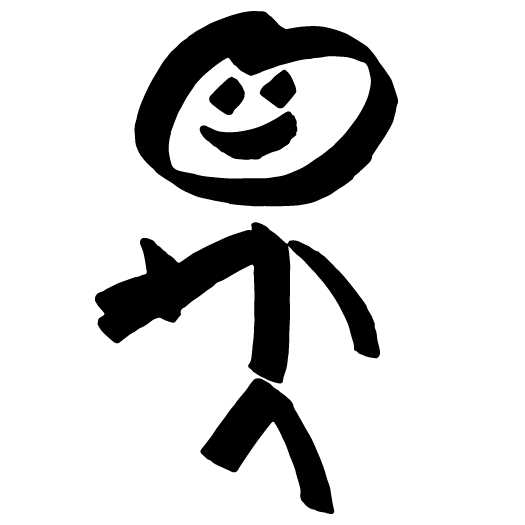
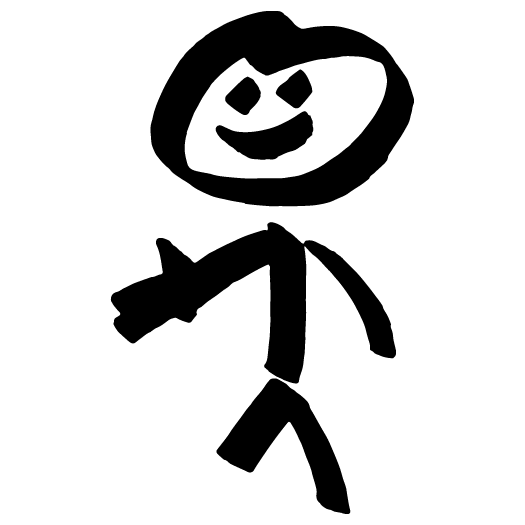
added all images and colors

Changed region(s): [[0.1829, 0.4267, 0.7619, 1.0], [0.2438, 0.0, 0.7924, 0.3962], [0.5181, 0.3352, 0.5486, 0.3657]]

diff --git a/css/main.css b/css/main.css
@@ -55,27 +55,27 @@ abbr, acronym {
 }
 
 #hi .pics {
-  background: #7dfbff;
+  background: #84FFFF;
 }
 
 #edu .pics {
-  background: #00ffff;
+  background: #18FFFF;
 }
 
 #recruit .pics {
-  background: #00eba1;
+  background: #00E5FF;
 }
 
 #copy .pics {
-  background: #00dfeb;
+  background: #00B8D4;
 }
 
 #dev .pics {
-  background: #85D7FF;
+  background: #00E676;
 }
 
 #contact .pics {
-  background: #fff;
+  background: #69F0AE;
 }
 
 #up, #down {
@@ -295,4 +295,4 @@ div .text {
   }
 }
 
[2 lines of base64/hex data omitted]

diff --git a/index.html b/index.html
@@ -25,8 +25,8 @@
             Menu
         </nav>
 
-        <span id="up">UP</span>
-        <span id="down">DOWN</span>
+        <span id="up"><img src="img/Ilu_strzalka-up.png" alt="up arrow"></span>
+        <span id="down"><img src="img/Ilu_strzalka-down.png" alt="down arrow"></span>
 
         <div class="container" id="hi">
             <div class="text">
@@ -49,28 +49,28 @@
         <div class="container" id="recruit">
             <div class="text">Jeszcze na studiach zacząłem pracę dla jednej z największych firm technologicznych świata, gdzie przez ponad 6 lat rekrutowałem inżynierów.</div>
             <div class="pics">
-
+                <img src="img/Ilu-03.png" alt="sticky figure">
             </div>
         </div>
 
         <div class="container" id="copy">
             <div class="text">Następnie przez ponad rok w tej samej firmie dbałem o jej wizerunek jako specjalista ds. komunikacji, głównie pisząc teksty po polsku i po angielsku.</div>
             <div class="pics">
-
+                <img src="img/Ilu-04.png" alt="sticky figure">
             </div>
         </div>
 
         <div class="container" id="dev">
             <div class="text">W połowie 2017 roku trafiłem na bootcamp programistyczny w Coders Lab, gdzie przez prawie 2 miesiące uczyłem się: HTML, CSS, JavaScript (w tym ES6), jQuery, React.</div>
             <div class="pics">
-
+                <img src="img/Ilu-05.png" alt="sticky figure">
             </div>
         </div>
 
         <div class="container" id="contact">
             <div class="text">Teraz jestem gotowy, żeby dalej rozwijać się jako Front-End Developer i uczyć nowych rzeczy. <br> <br> Chcesz się ze mną skontaktować? Nic prostszego!</div>
             <div class="pics">
-
+                <img src="img/Ilu-06.png" alt="sticky figure">
             </div>
         </div>
 

diff --git a/sass/main.scss b/sass/main.scss
@@ -53,27 +53,27 @@ abbr, acronym
 }
 
 #hi .pics {
-  background: #7dfbff;
+  background: #84FFFF;
 }
 
 #edu .pics {
-  background: #00ffff;
+  background: #18FFFF;
 }
 
 #recruit .pics {
-  background: #00eba1;
+  background: #00E5FF;
 }
 
 #copy .pics {
-  background: #00dfeb;
+  background: #00B8D4;
 }
 
 #dev .pics {
-  background: #85D7FF;
+  background: #00E676;
 }
 
 #contact .pics {
-  background: #fff;
+  background: #69F0AE;
 }
 
 #up, #down {
